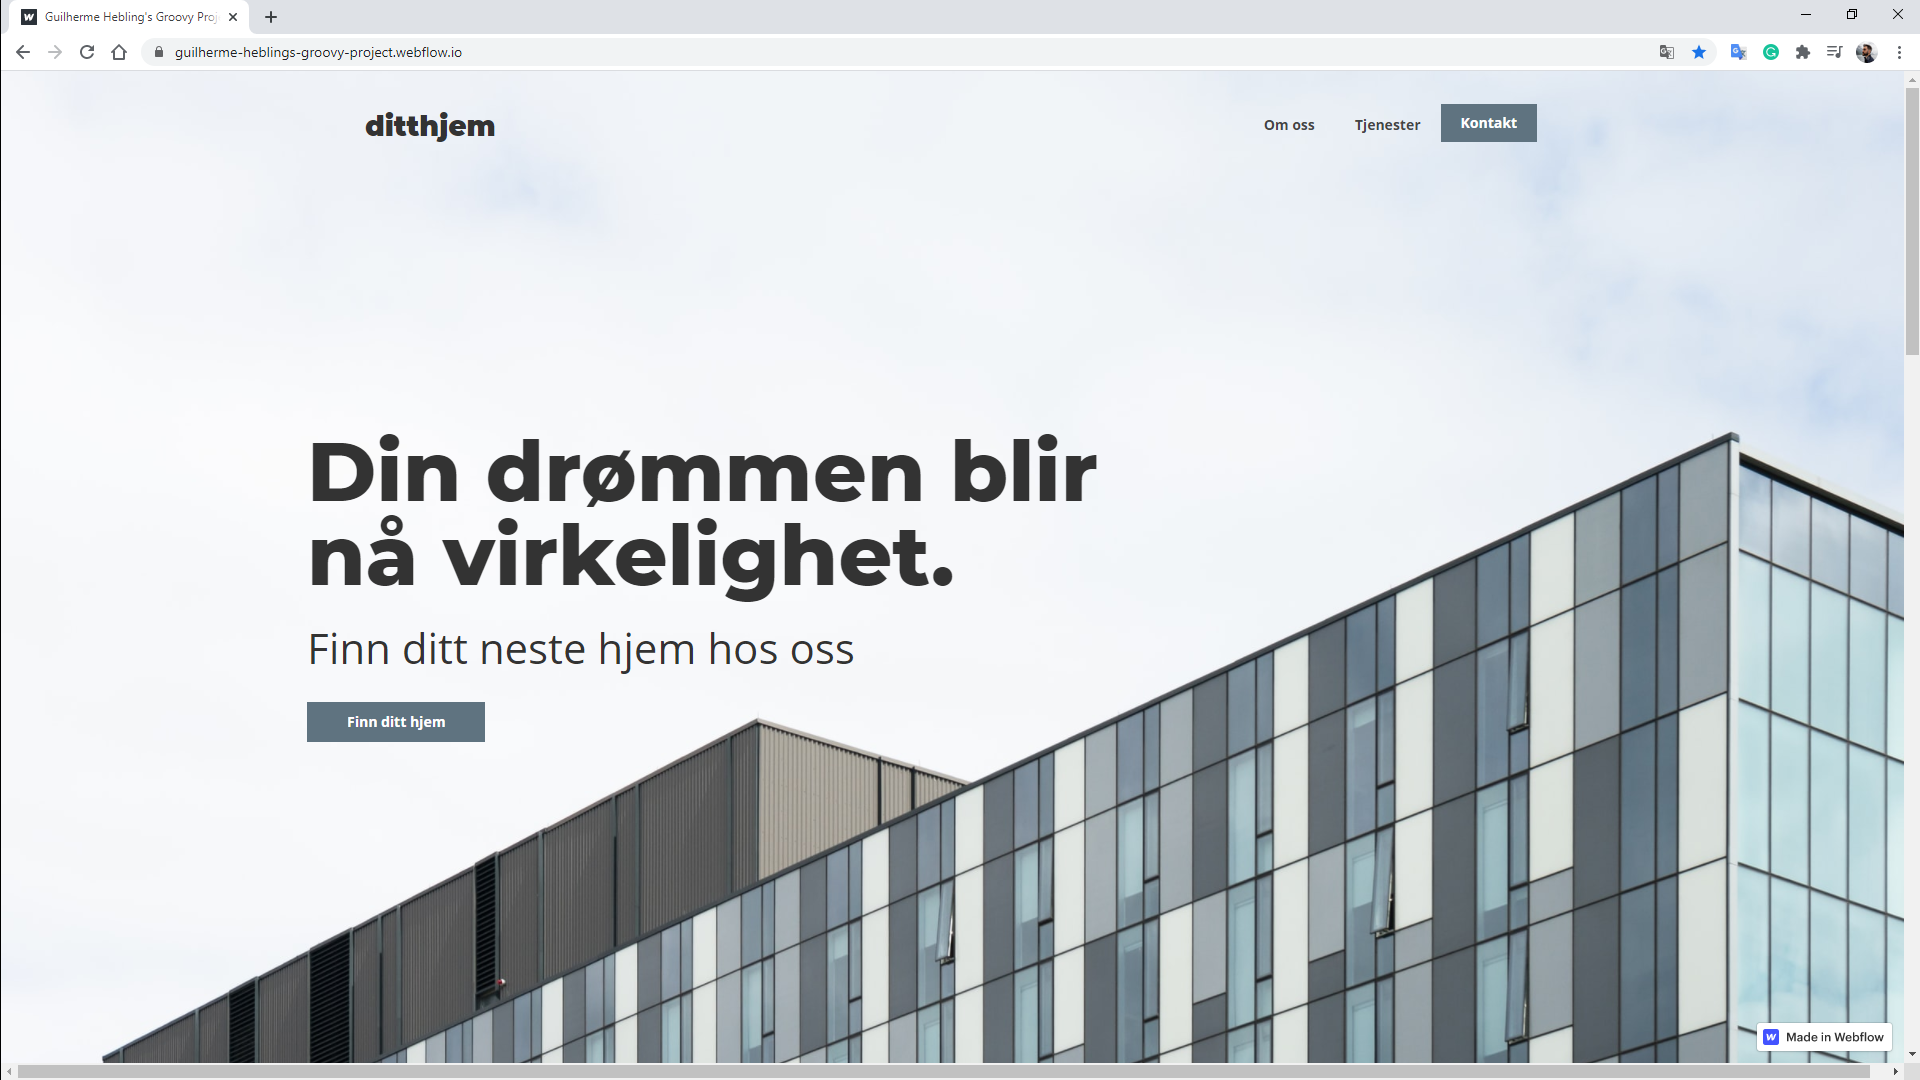
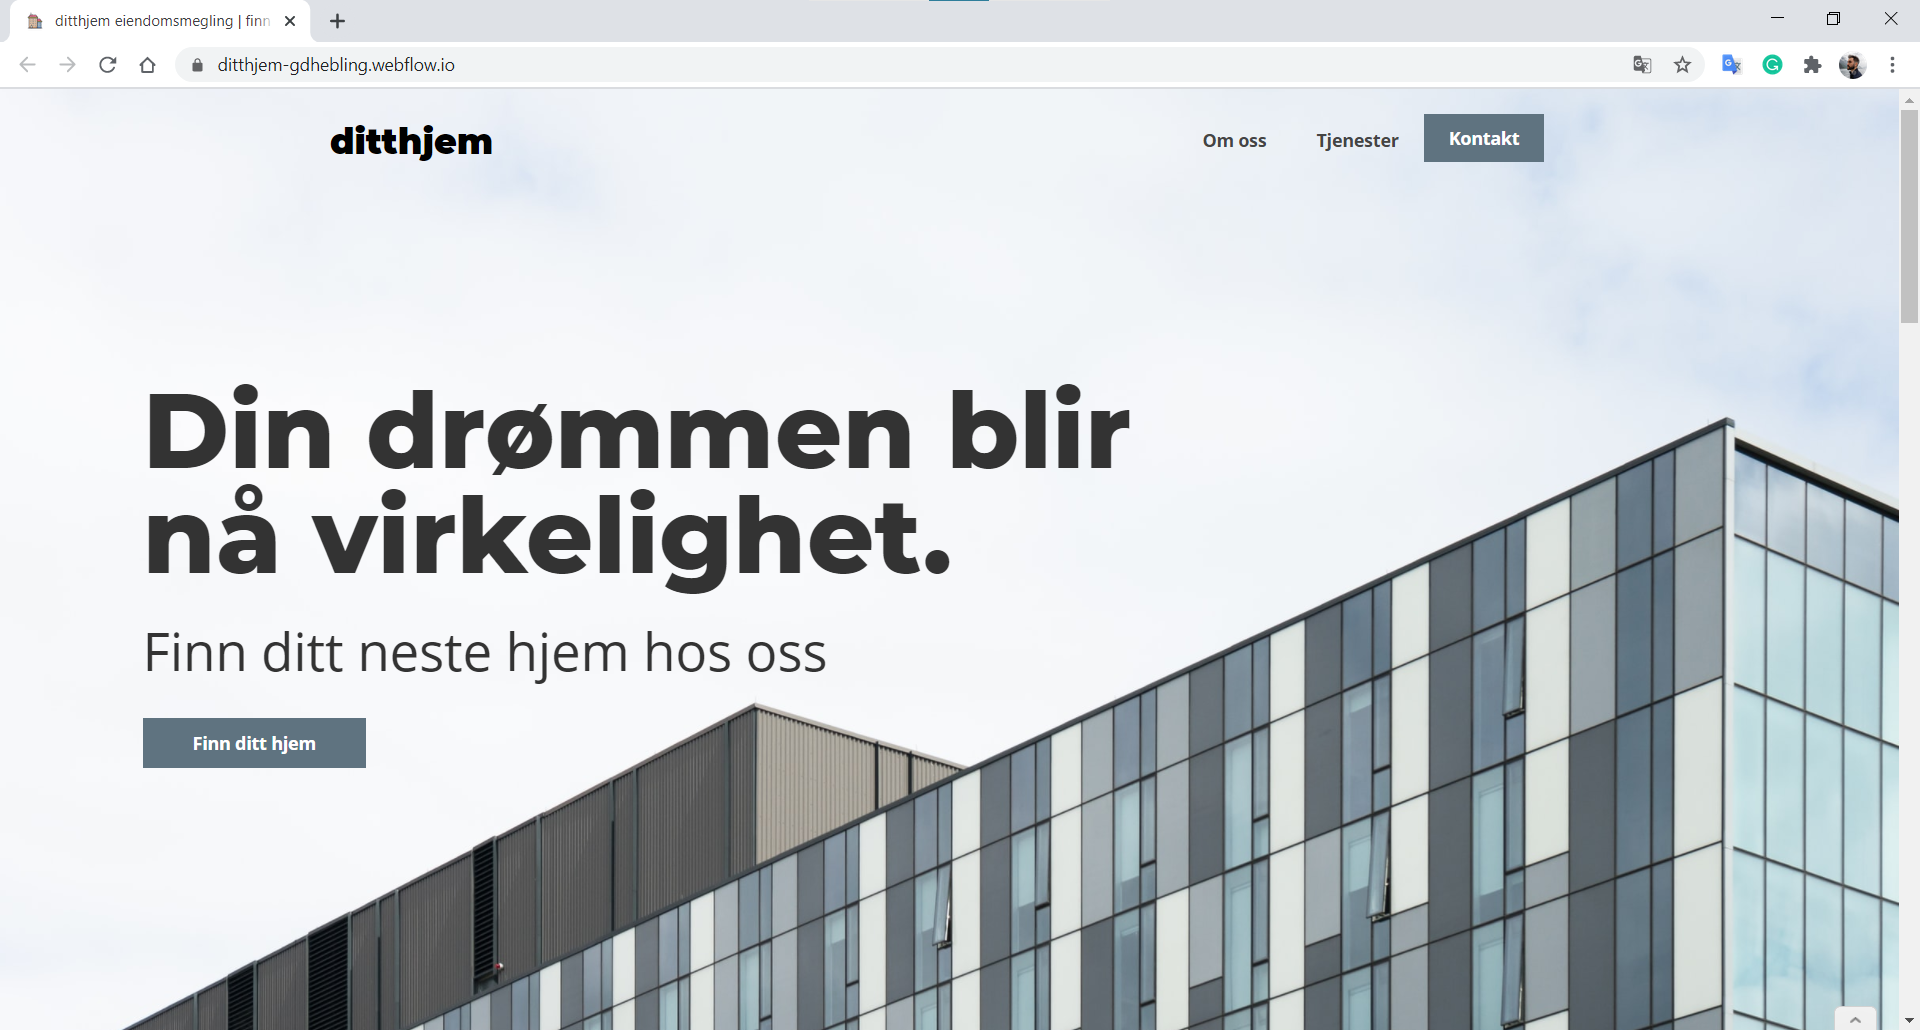
Add Web Design section with Webflow project

diff --git a/index.html b/index.html
@@ -94,30 +94,33 @@
         <h2 class="section__title">
             Projects
         </h2>
-        <p class="section__subtitle">
-            Here you can find some of my work.
-        </p>
+
+        <h3 class="section__subtitle">
+            Web Development
+        </h3>
 
         <div class="content">
 
             <div class="card">
                 <div class="card__img">
-                    <a href="https://gdhebling.github.io/robofriends/" target="_blank" rel="noopener"><img
-                            src="./img/robofriends-webapp-screenshot.png" alt="" class="card__image"></a></div>
+                    <a href="https://clone-3665f.web.app/" target="_blank" rel="noopener"><img
+                            src="./img/amazon-clone-website-home-screenshot.png" alt="" class="card__image"></a></div>
                 <div class="card__description">
-                    <h3 class="card__title">React App - RoboFriends</h3>
+                    <h3 class="card__title">Amazon Clone</h3>
                     <p class="card__about">
                         <span>
-                            Web application created with <strong>React</strong> and deployed to GitHub Pages using the
-                            CRA environment. The application fetches data from an external <strong>JSON</strong> list
-                            using <strong>REST API</strong> and makes the information searchable and able to be
-                            filtered.
+                            Web application created with <strong>React</strong> and deployed using
+                            <strong>Google Firebase</strong>.
+                        </span>
+                        <span>
+                            React Router for UI, React Context API for basket, and user authentication integrated with
+                            Firebase.
                         </span>
                     </p>
                     <div class="card__btn">
-                        <a href="https://gdhebling.github.io/robofriends/" target="_blank" rel="noopener" type="button"
+                        <a href="https://clone-3665f.web.app/" target="_blank" rel="noopener" type="button"
                             class="btn btn-primary">Live Demo</a>
-                        <a href="https://github.com/gdhebling/robofriends" target="_blank" rel="noopener" type="button"
+                        <a href="https://github.com/gdhebling/amazon-clone" target="_blank" rel="noopener" type="button"
                             class="btn btn-default">GitHub</a>
                     </div>
                 </div>
@@ -149,24 +152,22 @@
 
             <div class="card">
                 <div class="card__img">
-                    <a href="https://clone-3665f.web.app/" target="_blank" rel="noopener"><img
-                            src="./img/amazon-clone-website-home-screenshot.png" alt="" class="card__image"></a></div>
+                    <a href="https://gdhebling.github.io/robofriends/" target="_blank" rel="noopener"><img
+                            src="./img/robofriends-webapp-screenshot.png" alt="" class="card__image"></a></div>
                 <div class="card__description">
-                    <h3 class="card__title">Amazon Clone</h3>
+                    <h3 class="card__title">React App - RoboFriends</h3>
                     <p class="card__about">
                         <span>
-                            Web application created with <strong>React</strong> and deployed using
-                            <strong>Google Firebase</strong>.
-                        </span>
-                        <span>
-                            React Router for UI, React Context API for basket, and user authentication integrated with
-                            Firebase.
+                            Web application created with <strong>React</strong> and deployed to GitHub Pages using the
+                            CRA environment. The application fetches data from an external <strong>JSON</strong> list
+                            using <strong>REST API</strong> and makes the information searchable and able to be
+                            filtered.
                         </span>
                     </p>
                     <div class="card__btn">
-                        <a href="https://clone-3665f.web.app/" target="_blank" rel="noopener" type="button"
+                        <a href="https://gdhebling.github.io/robofriends/" target="_blank" rel="noopener" type="button"
                             class="btn btn-primary">Live Demo</a>
-                        <a href="https://github.com/gdhebling/amazon-clone" target="_blank" rel="noopener" type="button"
+                        <a href="https://github.com/gdhebling/robofriends" target="_blank" rel="noopener" type="button"
                             class="btn btn-default">GitHub</a>
                     </div>
                 </div>
@@ -244,6 +245,34 @@
                             type="button" class="btn btn-primary">Live Demo</a>
                         <a href="https://github.com/gdhebling/google-maps-store-locator" target="_blank" rel="noopener"
                             type="button" class="btn btn-default">GitHub</a>
+                    </div>
+                </div>
+            </div>
+
+            <h3 class="section__subtitle">
+                Web Design
+            </h3>
+
+            <div class="card">
+                <div class="card__img">
+                    <a href="https://ditthjem-gdhebling.webflow.io/" target="_blank" rel="noopener">
+                        <img src="./img/ditthjem-webdesign-website-screenshot.png" alt="" class="card__image">
+                    </a>
+                </div>
+                <div class="card__description">
+                    <h3 class="card__title">Webflow Website</h3>
+                    <p class="card__about">
+                        <span>
+                            A website created using the platform <strong>Webflow</strong>.
+                        </span>
+                        <span>
+                            Focus on the design and the user experience, with strong titles and CTAs, smooth animations,
+                            and beautiful images.
+                        </span>
+                    </p>
+                    <div class="card__btn">
+                        <a href="https://ditthjem-gdhebling.webflow.io/" target="_blank" rel="noopener" type="button"
+                            class="btn btn-primary">Live Demo</a>
                     </div>
                 </div>
             </div>

diff --git a/styles/main.scss b/styles/main.scss
@@ -9,6 +9,15 @@ $darkColor: #37474F;
 $accentColor: #78909C;
 $darkGreyColor: #212121;
 $lightGreyColor: #fdfdfd;
+
+$transition: 0.3s ease;
+
+// @mixin defaultTransition {
+
+// }
+
+
+
 /* Global Styles 
 =============== */
 
@@ -404,11 +413,22 @@ header {
             align-items: center;
             justify-content: center;
 
+
             img {
                 object-fit: cover;
                 width: 480px;
                 height: 260px;
+                transition: $transition;
+
+
+                &:hover,
+                &:focus,
+                &:active {
+                    opacity: 0.8;
+                    // filter: blur(1px);
+                }
             }
+
         }
 
         .card__description {

diff --git a/styles/main.css b/styles/main.css
@@ -424,6 +424,12 @@ header .burger div {
      object-fit: cover;
   width: 480px;
   height: 260px;
+  -webkit-transition: 0.3s ease;
+  transition: 0.3s ease;
+}
+
+.content .card .card__img img:hover, .content .card .card__img img:focus, .content .card .card__img img:active {
+  opacity: 0.8;
 }
 
 .content .card .card__description {
